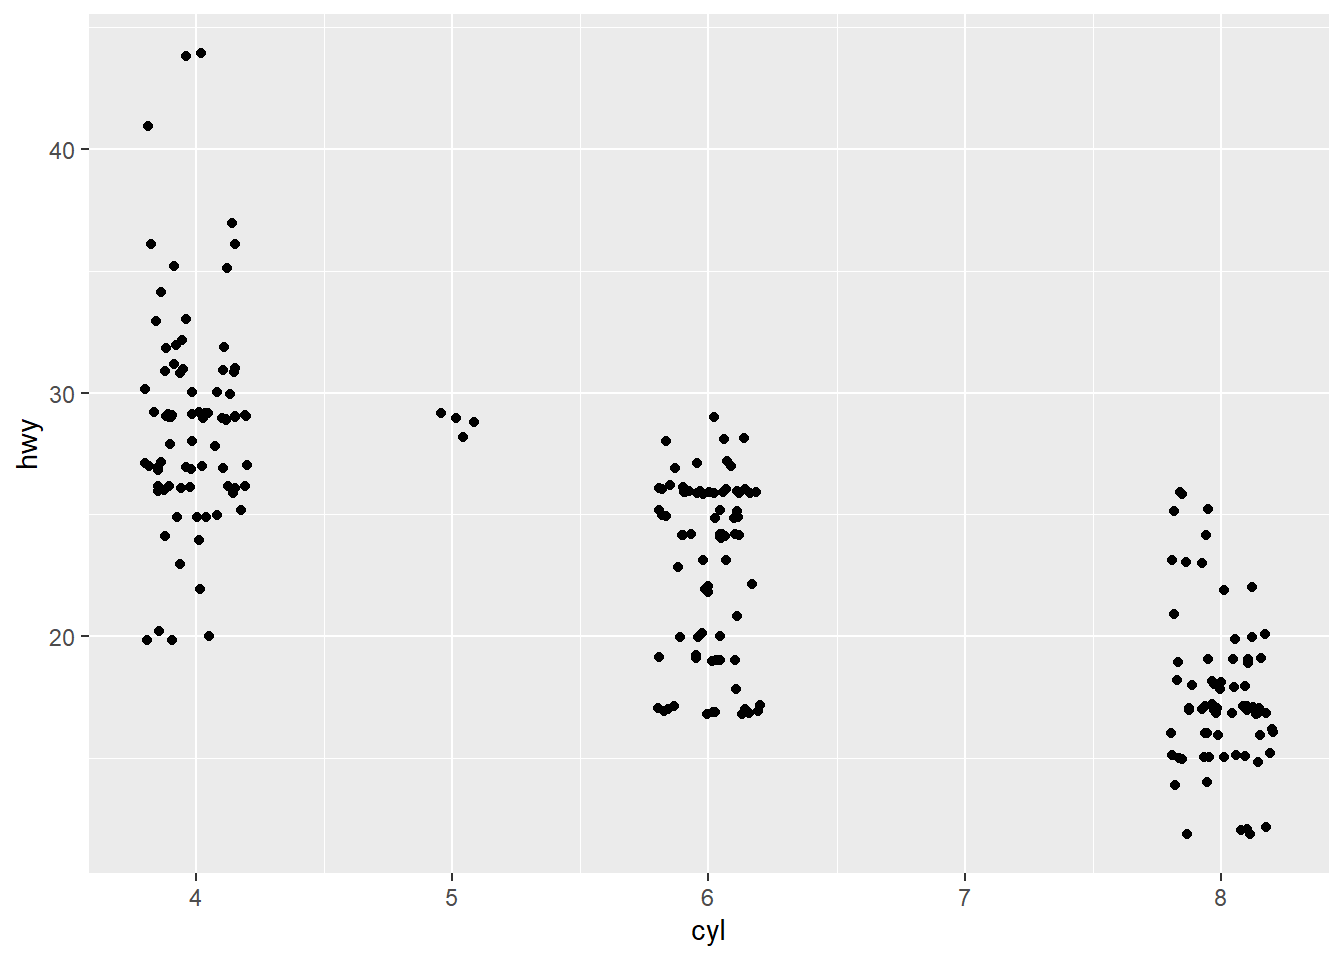
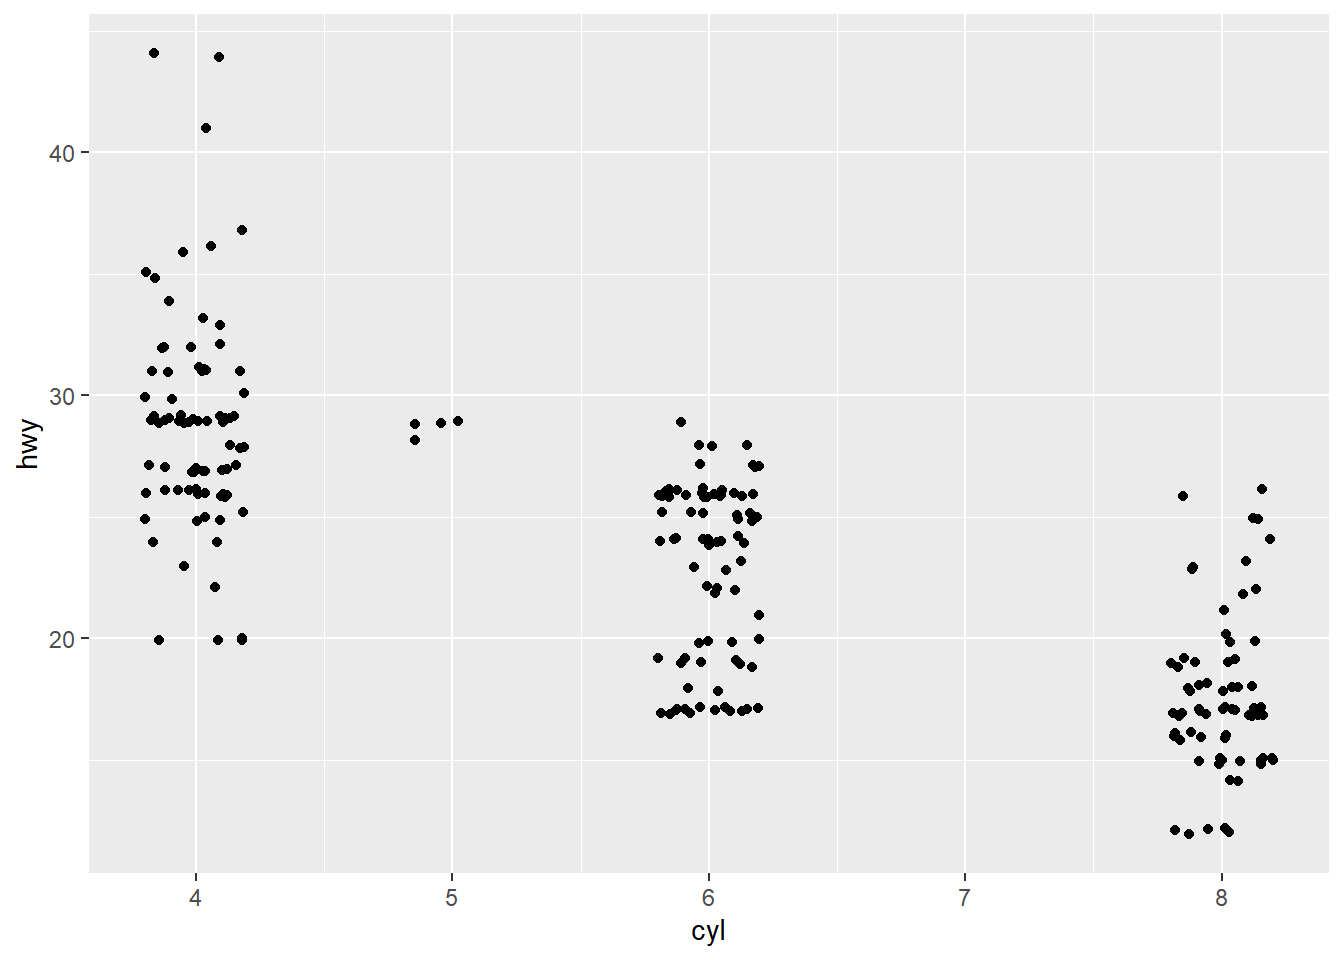
Initial commit

diff --git a/docs/資料視覺化.html b/docs/資料視覺化.html
@@ -718,7 +718,7 @@ code span.wa { color: #60a0b0; font-weight: bold; font-style: italic; } /* Warni
 <p>以上各引數的功能彙整如表<a href="資料視覺化.html#tab:geom-point-code-tab">3.2</a>。</p>
 <table class="table table-striped table-hover" style="font-size: 14px; margin-left: auto; margin-right: auto;">
 <caption style="font-size: initial !important;">
-<span id="tab:geom-point-code-tab">表 3.2: </span>圖表類型彙整
+<span id="tab:geom-point-code-tab">表 3.2: </span><code>geom_point()</code>函式引數設定
 </caption>
 <thead>
 <tr>
@@ -824,30 +824,180 @@ code span.wa { color: #60a0b0; font-weight: bold; font-style: italic; } /* Warni
 <div class="sourceCode" id="cb6"><pre class="sourceCode r"><code class="sourceCode r"><span id="cb6-1"><a href="資料視覺化.html#cb6-1" tabindex="-1"></a><span class="fu">ggplot</span>(iris, <span class="fu">aes</span>(<span class="at">x=</span>Sepal.Length, Sepal.Width))<span class="sc">+</span></span>
 <span id="cb6-2"><a href="資料視覺化.html#cb6-2" tabindex="-1"></a>  <span class="fu">geom_point</span>(<span class="fu">aes</span>(<span class="at">color=</span>Species, <span class="at">size=</span>Petal.Width), <span class="at">shape=</span><span class="dv">20</span>)</span></code></pre></div>
 <p><img src="series_files/figure-html/geom-point-eg3-1.png" width="70%" style="display: block; margin: auto;" /></p>
-<p>圖中「品種」為類別型資料；「花瓣的長度」為連續型資料，透過漸層樣式散布圖可表達更多維度的資料，添增資訊的豐富度。觀察出圖結果，可發現，setosa 類別（ <span style="color:#F8766D">紅色點子</span>）的花瓣寬度（點子大小）與花萼長度（橫軸）相較於另兩品種偏小，有相當明顯的區別。因此透過漸層樣式散布圖可初步觀察對於資料分類的重要影響變數，為資料科學的關鍵步驟。</p>
+<p>圖中「品種」為類別型資料；「花瓣的寬度」為連續型資料，透過漸層樣式散布圖可表達更多維度的資料，添增資訊的豐富度。觀察出圖結果可發現，setosa 類別（ <span style="color:#F8766D">紅色點子</span>）的花瓣寬度（點子大小）與花萼長度（橫軸）相較於另兩品種偏小，有相當明顯的區別。因此透過漸層樣式散布圖可初步觀察對於資料分類的重要影響變數，為資料科學的關鍵步驟。</p>
 <p>若希望修正顏色漸層，請參考<a href="資料視覺化.html#顏色漸層">此</a>；若希望修正點子大小之漸層，請參考<a href="資料視覺化.html#大小尺度">此</a>。</p>
+<p style="color:#003D79;font-size:18px;line-height:2">
+<strong>⌾ 加入趨勢線</strong>
+</p>
+<p>點子圖通常用以表示兩連續變數的關係，可從中推敲其趨勢，繪圖時可另考量繪製趨勢線，有助於引導閱讀者瞭解變數間的關係。趨勢線可透過<code>geom_smooth()</code>繪製，函式撰寫如下。</p>
+<div class="sourceCode" id="cb7"><pre class="sourceCode r"><code class="sourceCode r"><span id="cb7-1"><a href="資料視覺化.html#cb7-1" tabindex="-1"></a><span class="fu">geom_smooth</span>(method, <span class="at">se=</span>, <span class="at">span=</span>, <span class="at">level=</span>, <span class="at">color=</span>, <span class="at">linetype=</span>, <span class="at">linewidth=</span>, <span class="at">fill=</span>, <span class="at">alpha=</span>)</span></code></pre></div>
+<p>以上各引數的功能彙整如表<a href="資料視覺化.html#tab:geom-smooth-code-tab">3.3</a>。</p>
+<table class="table table-striped table-hover" style="font-size: 14px; margin-left: auto; margin-right: auto;">
+<caption style="font-size: initial !important;">
+<span id="tab:geom-smooth-code-tab">表 3.3: </span><code>geom_smooth()</code>函式引數設定
+</caption>
+<thead>
+<tr>
+<th style="text-align:left;font-weight: bold;color: white !important;background-color: #8E8E8E !important;">
+引數
+</th>
+<th style="text-align:left;font-weight: bold;color: white !important;background-color: #8E8E8E !important;">
+功能設定
+</th>
+<th style="text-align:left;font-weight: bold;color: white !important;background-color: #8E8E8E !important;">
+說明
+</th>
+</tr>
+</thead>
+<tbody>
+<tr>
+<td style="text-align:left;">
+<code>method=</code>
+</td>
+<td style="text-align:left;width: 6.5cm; ">
+設定趨勢線迴歸模型
+</td>
+<td style="text-align:left;">
+可使用線性迴歸（<code>lm</code>）或一般化線性迴歸（<code>glm</code>）
+</td>
+</tr>
+<tr>
+<td style="text-align:left;">
+<code>formula=</code>
+</td>
+<td style="text-align:left;width: 6.5cm; ">
+設定迴歸函式
+</td>
+<td style="text-align:left;">
+預設為<code>y~x</code>
+</td>
+</tr>
+<tr>
+<td style="text-align:left;">
+<code>se=</code>
+</td>
+<td style="text-align:left;width: 6.5cm; ">
+設定是否回傳趨勢線的標準誤
+</td>
+<td style="text-align:left;">
+預設為<code>T</code>，若不希望有標準誤，須設定<code>F</code>
+</td>
+</tr>
+<tr>
+<td style="text-align:left;">
+<code>level=</code>
+</td>
+<td style="text-align:left;width: 6.5cm; ">
+設定信心水準
+</td>
+<td style="text-align:left;">
+預設為 95% (<code>0.95</code>) 之信心水準
+</td>
+</tr>
+<tr>
+<td style="text-align:left;">
+<code>span=</code>
+</td>
+<td style="text-align:left;width: 6.5cm; ">
+設定迴歸的區間
+</td>
+<td style="text-align:left;">
+迴歸區間，若區間愈大，線條愈平滑；若區間愈小，線條愈趨近原資料分布
+</td>
+</tr>
+<tr>
+<td style="text-align:left;">
+<code>color=</code>
+</td>
+<td style="text-align:left;width: 6.5cm; ">
+設定趨勢線顏色
+</td>
+<td style="text-align:left;">
+請參考<a href="資料視覺化.html#geom-setting-color">顏色設定</a>
+</td>
+</tr>
+<tr>
+<td style="text-align:left;">
+<code>linetype=</code>
+</td>
+<td style="text-align:left;width: 6.5cm; ">
+設定趨勢線樣式
+</td>
+<td style="text-align:left;">
+請參考<a href="資料視覺化.html#geom-setting-linetype">線條樣式設定</a>
+</td>
+</tr>
+<tr>
+<td style="text-align:left;">
+<code>linewidth=</code>
+</td>
+<td style="text-align:left;width: 6.5cm; ">
+設定趨勢線粗細
+</td>
+<td style="text-align:left;">
+數值
+</td>
+</tr>
+<tr>
+<td style="text-align:left;">
+<code>fill=</code>
+</td>
+<td style="text-align:left;width: 6.5cm; ">
+設定趨勢線標準誤範圍的顏色
+</td>
+<td style="text-align:left;">
+請參考<a href="資料視覺化.html#geom-setting-color">顏色設定</a>
+</td>
+</tr>
+<tr>
+<td style="text-align:left;">
+<code>alpha=</code>
+</td>
+<td style="text-align:left;width: 6.5cm; ">
+設定趨勢線標準誤範圍的透明度
+</td>
+<td style="text-align:left;">
+數值，介於 0（完全透明）與 1（完全不透明）間
+</td>
+</tr>
+</tbody>
+</table>
+<p>以加入線性的趨勢線為例，此時<code>method=</code>引數設定為<code>lm</code>，即線性迴歸（linear model），而公式則為<span class="math inline">\(y=\beta x\)</span>（<code>y~x</code>）。另請注意在線性迴歸時，即無須另設定用於曲線的<code>span=</code>引數。</p>
+<div class="sourceCode" id="cb8"><pre class="sourceCode r"><code class="sourceCode r"><span id="cb8-1"><a href="資料視覺化.html#cb8-1" tabindex="-1"></a><span class="fu">ggplot</span>(iris, <span class="fu">aes</span>(<span class="at">x=</span>Sepal.Length, Sepal.Width))<span class="sc">+</span></span>
+<span id="cb8-2"><a href="資料視覺化.html#cb8-2" tabindex="-1"></a>  <span class="fu">geom_point</span>()<span class="sc">+</span></span>
+<span id="cb8-3"><a href="資料視覺化.html#cb8-3" tabindex="-1"></a>  <span class="fu">geom_smooth</span>(<span class="at">method=</span>lm, <span class="at">formula=</span>y<span class="sc">~</span>x, <span class="at">color=</span><span class="st">&quot;#CE0000&quot;</span>, <span class="at">fill=</span><span class="st">&quot;#FF7575&quot;</span>, <span class="at">alpha=</span><span class="fl">0.2</span>)</span></code></pre></div>
+<p><img src="series_files/figure-html/geom-smooth-eg1-1.png" width="70%" style="display: block; margin: auto;" /></p>
+<p>不同的<code>span=</code>引數所繪製的趨勢圖亦有所不同，如圖<a href="資料視覺化.html#fig:geom-smooth-eg2">3.7</a>所示，可發現當所設定的數值愈大時，趨勢線愈加平滑。</p>
+<div class="figure" style="text-align: center"><span style="display:block;" id="fig:geom-smooth-eg2"></span>
+<img src="series_files/figure-html/geom-smooth-eg2-1.png" alt="趨勢線中的`span=`引數" width="90%" />
+<p class="caption">
+圖 3.7: 趨勢線中的<code>span=</code>引數
+</p>
+</div>
 <p style="color:#003D79;font-size:18px;line-height:2">
 <strong>⌾ 加入跳點</strong>
 </p>
 <p>有時資料點會重疊，導致肉眼無法觀察，更難以判斷資料的集中程度（重疊後變成單一點，反而會將群聚的點誤判為稀疏），此一情境即常發生於具有整數或類別型的資料。如以下案例，利用<code>mpg</code>資料，以汽缸數（cyl）為橫軸；以每加侖英里數（hwy）為縱軸，繪製散布圖如下。</p>
-<div class="sourceCode" id="cb7"><pre class="sourceCode r"><code class="sourceCode r"><span id="cb7-1"><a href="資料視覺化.html#cb7-1" tabindex="-1"></a><span class="fu">ggplot</span>(mpg, <span class="fu">aes</span>(cyl, hwy))<span class="sc">+</span></span>
-<span id="cb7-2"><a href="資料視覺化.html#cb7-2" tabindex="-1"></a>  <span class="fu">geom_point</span>()</span></code></pre></div>
+<div class="sourceCode" id="cb9"><pre class="sourceCode r"><code class="sourceCode r"><span id="cb9-1"><a href="資料視覺化.html#cb9-1" tabindex="-1"></a><span class="fu">ggplot</span>(mpg, <span class="fu">aes</span>(cyl, hwy))<span class="sc">+</span></span>
+<span id="cb9-2"><a href="資料視覺化.html#cb9-2" tabindex="-1"></a>  <span class="fu">geom_point</span>()</span></code></pre></div>
 <p><img src="series_files/figure-html/geom-point-eg4-1.png" width="70%" style="display: block; margin: auto;" /></p>
 <p>由於汽缸數與每加侖英里數在該資料中皆為正整數，導致有許多資料是重疊的，不易觀察。此時可以利用<code>geom_jitter()</code>加入亂數，使資料跳動至鄰近的座標點上，得以較明確觀察資料間的散布情形，且不影響原資料的分布。<code>geom_jitter()</code>函式的撰寫架構如下。</p>
-<div class="sourceCode" id="cb8"><pre class="sourceCode r"><code class="sourceCode r"><span id="cb8-1"><a href="資料視覺化.html#cb8-1" tabindex="-1"></a><span class="fu">geom_jitter</span>(<span class="at">width=</span>, <span class="at">height=</span>)</span></code></pre></div>
+<div class="sourceCode" id="cb10"><pre class="sourceCode r"><code class="sourceCode r"><span id="cb10-1"><a href="資料視覺化.html#cb10-1" tabindex="-1"></a><span class="fu">geom_jitter</span>(<span class="at">width=</span>, <span class="at">height=</span>)</span></code></pre></div>
 <p>其中，<code>width=</code>引數表示橫軸變動的幅度，如<code>width=0.1</code>，表示針對橫軸向左與右隨機變動 10% 以內。<code>height=</code>引數則表示橫軸變動的幅度。</p>
 <p>另外<code>geom_point()</code>內部的所有引數皆可套用至<code>geom_jitter()</code>函式中，如需設定顏色、大小等，皆可使用表<a href="資料視覺化.html#tab:geom-point-code-tab">3.2</a>的引數。</p>
-<div class="sourceCode" id="cb9"><pre class="sourceCode r"><code class="sourceCode r"><span id="cb9-1"><a href="資料視覺化.html#cb9-1" tabindex="-1"></a><span class="co"># 先利用duplicated()函式檢查重複的個數</span></span>
-<span id="cb9-2"><a href="資料視覺化.html#cb9-2" tabindex="-1"></a><span class="fu">sum</span>(<span class="fu">duplicated</span>(mpg[, <span class="fu">c</span>(<span class="st">&quot;cyl&quot;</span>,<span class="st">&quot;hwy&quot;</span>)]))</span></code></pre></div>
+<div class="sourceCode" id="cb11"><pre class="sourceCode r"><code class="sourceCode r"><span id="cb11-1"><a href="資料視覺化.html#cb11-1" tabindex="-1"></a><span class="co"># 先利用duplicated()函式檢查重複資料的筆數</span></span>
+<span id="cb11-2"><a href="資料視覺化.html#cb11-2" tabindex="-1"></a><span class="fu">sum</span>(<span class="fu">duplicated</span>(mpg[, <span class="fu">c</span>(<span class="st">&quot;cyl&quot;</span>,<span class="st">&quot;hwy&quot;</span>)]))</span></code></pre></div>
 <pre><code>## [1] 186</code></pre>
-<div class="sourceCode" id="cb11"><pre class="sourceCode r"><code class="sourceCode r"><span id="cb11-1"><a href="資料視覺化.html#cb11-1" tabindex="-1"></a><span class="co"># 繪製具有跳點的散布圖</span></span>
-<span id="cb11-2"><a href="資料視覺化.html#cb11-2" tabindex="-1"></a><span class="fu">ggplot</span>(mpg, <span class="fu">aes</span>(cyl, hwy))<span class="sc">+</span></span>
-<span id="cb11-3"><a href="資料視覺化.html#cb11-3" tabindex="-1"></a>  <span class="fu">geom_jitter</span>(<span class="at">width=</span><span class="fl">0.2</span>, <span class="at">height=</span><span class="fl">0.2</span>)</span></code></pre></div>
+<div class="sourceCode" id="cb13"><pre class="sourceCode r"><code class="sourceCode r"><span id="cb13-1"><a href="資料視覺化.html#cb13-1" tabindex="-1"></a><span class="co"># 繪製具有跳點的散布圖</span></span>
+<span id="cb13-2"><a href="資料視覺化.html#cb13-2" tabindex="-1"></a><span class="fu">ggplot</span>(mpg, <span class="fu">aes</span>(cyl, hwy))<span class="sc">+</span></span>
+<span id="cb13-3"><a href="資料視覺化.html#cb13-3" tabindex="-1"></a>  <span class="fu">geom_jitter</span>(<span class="at">width=</span><span class="fl">0.2</span>, <span class="at">height=</span><span class="fl">0.2</span>)</span></code></pre></div>
 <p><img src="series_files/figure-html/geom-jitter-eg-1.png" width="70%" style="display: block; margin: auto;" /></p>
-<p>由出圖結果可知，使用<code>geom_jitter()</code>可使資料更容易辨識，惟須注意的是，<code>width=</code>與<code>height=</code>引數對於圖表的視覺化程度有相當大的影響，若數值設定的愈大，資料連續性的情況就會越明顯，但可能過度偏離實際情況。因此針對不同資料，此二引數的調整需多次嘗試，尋找最佳可視化且不影響原始資料分布的繪圖方式。</p>
+<p>由出圖結果可知，使用<code>geom_jitter()</code>可使資料更容易辨識，惟須注意的是，<code>width=</code>與<code>height=</code>引數對於圖表的視覺化程度有相當大的影響，若數值設定的愈大，資料連續性的情況就會越明顯，但可能過度偏離實際情況。因此針對不同資料，此二引數的調整需多次嘗試，尋找最佳可視化且不影響原始資料分布的繪圖方式。此外，由於<code>geom_jitter()</code>的跳動是隨機的，若欲每次輸出的結果是相同的，可設定隨機亂數（<a href="https://r-coder.com/set-seed-r/"><code>set.seed()</code></a>）在每次繪圖前執行之，以確保使用相同的隨機種子。</p>
 </div>
 <div id="折線圖" class="section level3 hasAnchor" number="3.1.2">
 <h3><span class="header-section-number">3.1.2</span> 折線圖<a href="資料視覺化.html#折線圖" class="anchor-section" aria-label="Anchor link to header"></a></h3>
+<p>折線圖（Line Chart）應用於表達兩連續變數的趨勢，或一連續變數隨時間變化的趨勢，可利用<code>geom_line()</code>函式達成之，函式撰寫架構如下。</p>
+<div class="sourceCode" id="cb14"><pre class="sourceCode r"><code class="sourceCode r"><span id="cb14-1"><a href="資料視覺化.html#cb14-1" tabindex="-1"></a><span class="fu">geom_line</span>(<span class="at">color=</span>, <span class="at">linetype=</span>, <span class="at">linewidth=</span>, <span class="at">alpha=</span>, <span class="at">group=</span>)</span></code></pre></div>
 </div>
 <div id="長條圖" class="section level3 hasAnchor" number="3.1.3">
 <h3><span class="header-section-number">3.1.3</span> 長條圖<a href="資料視覺化.html#長條圖" class="anchor-section" aria-label="Anchor link to header"></a></h3>
@@ -1007,6 +1157,20 @@ gitbook.start({
 });
 </script>
 
+<!-- dynamically load mathjax for compatibility with self-contained -->
+<script>
+  (function () {
+    var script = document.createElement("script");
+    script.type = "text/javascript";
+    var src = "true";
+    if (src === "" || src === "true") src = "https://cdnjs.cloudflare.com/ajax/libs/mathjax/2.7.9/latest.js?config=TeX-MML-AM_CHTML";
+    if (location.protocol !== "file:")
+      if (/^https?:/.test(src))
+        src = src.replace(/^https?:/, '');
+    script.src = src;
+    document.getElementsByTagName("head")[0].appendChild(script);
+  })();
+</script>
 </body>
 
 </html>
